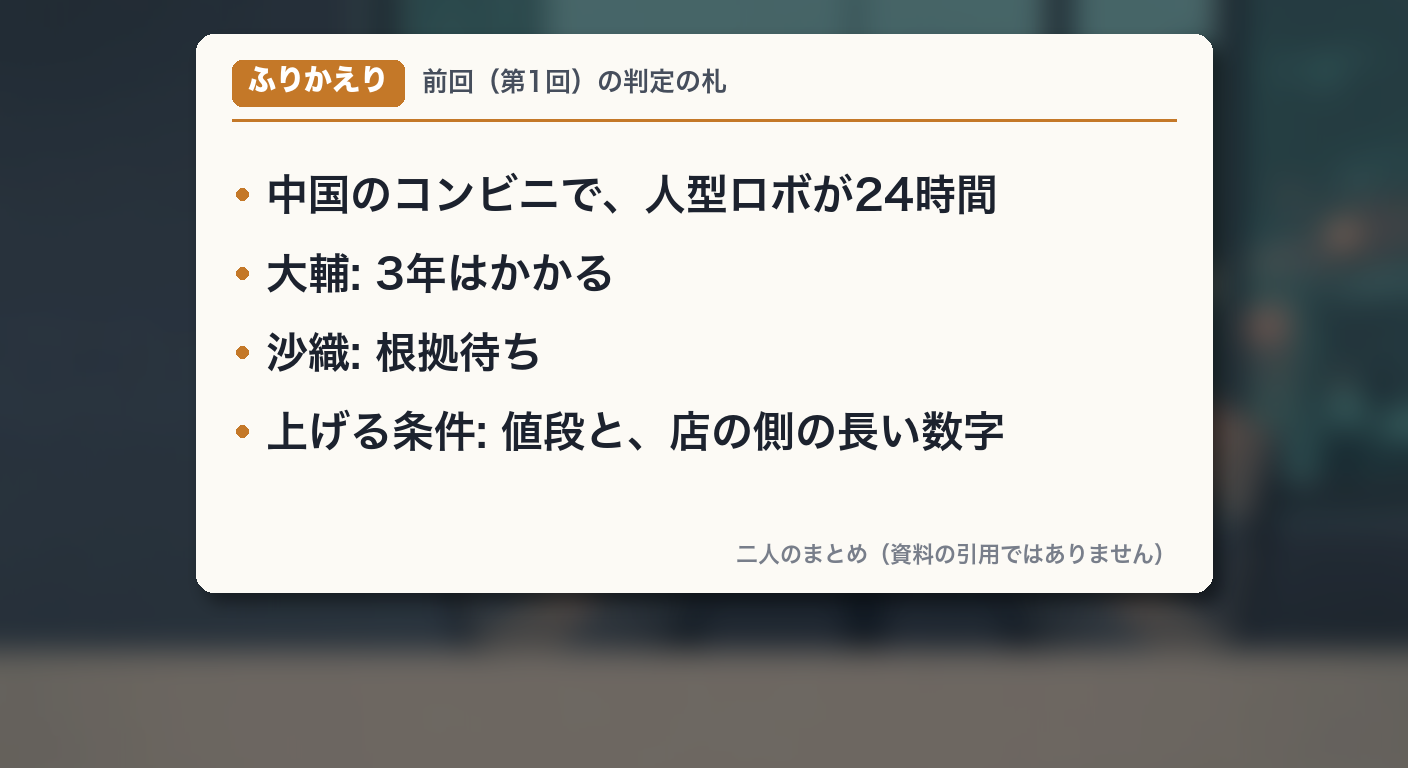
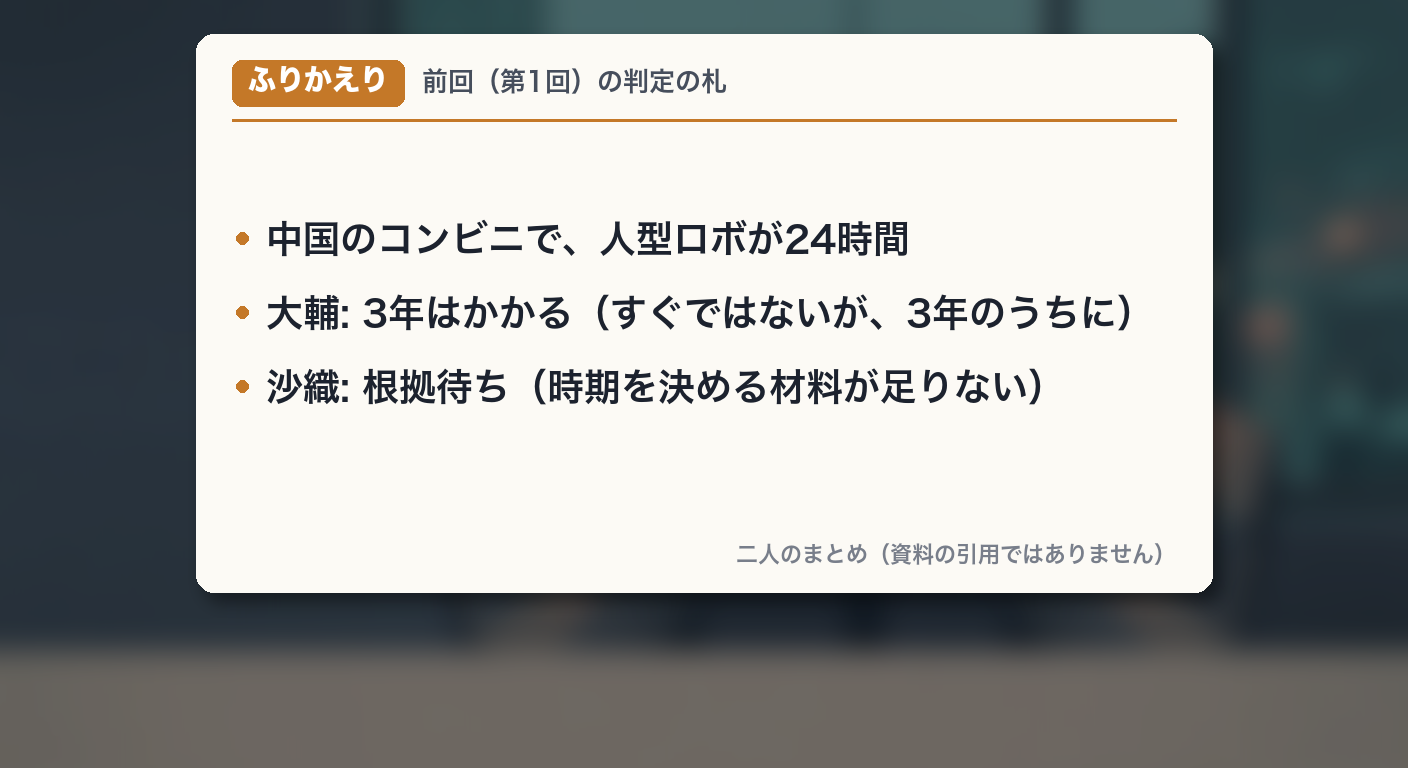
kl060: 初見レビュー1周目の修正（予想と札の向き・数字の整理・固有名の削減）

Changed region(s): [[0.1562, 0.2188, 0.8125, 0.5938]]

diff --git a/script_prep/kl060.md b/script_prep/kl060.md
@@ -69,21 +69,24 @@
 | 対象 | 予告（ティザー・Shorts） | タイトル案・サムネ | 本編で使う言い方（統一） |
 |---|---|---|---|
 | Google DeepMind | 出さない | 「グーグルのAI」（案3・6のみ） | 初出「グーグルのAIの研究部門、ディープマインド」、以後「ディープマインド」「ディープマインドの発表」 |
-| Gemini Robotics 2.5 | 出さない | 案6のみ「ジェミニ・ロボティクス」 | 初出1回だけ「ジェミニ・ロボティクス2.5」（字幕 display で英字）、以後は「頭脳のAI」 |
-| Apptronik / Apollo 2 | 「人型ロボ」 | 「人型ロボ」 | 初出「アメリカのアプトロニクという会社の人型ロボ、アポロ2」、以後「アポロ2」「人型ロボ」。論点3は「アポロ2を作るアプトロニク」 |
+| Gemini Robotics 2.5 | 出さない | 案6のみ「ジェミニ・ロボティクス」 | 台詞では名前を言わない（初見r1 指摘6）。「ロボットを動かすAIの新しい版」→「頭脳のAI」。製品名は資料カード・概要欄だけ |
+| Apptronik / Apollo 2 | 「人型ロボ」 | 「人型ロボ」 | 台詞では社名を言わない（初見r1 指摘6）。初出「アメリカの会社が作った人型ロボ、アポロ2」、論点3は「アポロ2を作っているアメリカの会社」。社名は資料カードだけ |
 | メルセデス・ベンツの工場 | 「動いている車の工場」 | 「車工場」（案2のみ「メルセデスの工場」） | 初出「メルセデス・ベンツの車の工場。ハンガリーとドイツの、動いている生産ライン」、以後「メルセデスの工場」「車のライン」 |
 | kitting | 「部品並べ」 | 「部品並べ」 | 「部品並べ」で統一（「キッティング」は言わない） |
 | 96% | 「成功率96%」 | 「成功率96%」 | 「成功率96%」「96%」。「100回中」は言わない |
 | 4% | 「残りの4%」 | 「残り4%」 | 「残りの4%」（成功しなかった分） |
 | 試験の段階 | 言わない | 言わない | 「本番の前の試し」「試験」（発表自身の言い方） |
 | 200超の作業の伸び | 出さない | 出さない | 「200を超える作業で、前の版と比べて」。毎回「メルセデスの工場の数字ではない」と区別 |
-| Figure × BMW | Shorts「別の会社の人型ロボは、アメリカの車工場で11か月」 | 出さない | 「アメリカのフィギュアという人型ロボの会社の報告」「BMWのアメリカの工場で11か月」 |
-| GXO | 出さない | 出さない | 「アメリカの物流の大手、GXO」「基本合意（正式な契約の前の約束）」 |
+| Figure × BMW | Shorts「別の会社の人型ロボは、アメリカの車工場で11か月」 | 出さない | 初出だけ「アメリカのフィギュアという人型ロボの会社の報告」、2回目以降は「BMWの工場の例」（初見r1 指摘6） |
+| GXO | 出さない | 出さない | 台詞は「アメリカの物流の大手」だけ（初見r1 指摘6）。カードは「物流の大手（GXO）」。「基本合意（正式な契約の前の約束）」 |
 | トヨタ（カナダ） | 出さない | 出さない | 「トヨタのカナダの工場」「別の会社の人型ロボを借りる契約」（アジリティの社名は出さない。会社名を絞るため） |
+| 4% | 「残りの4%」 | — | 初出から「ロボが失敗した残りの4%」（S02・S05、初見r1 指摘13） |
+| 札の順 | — | — | S05 で4つを並べ、3年はかかる＝すぐではないが3年のうち、根拠待ち＝来ないとは言わないが材料不足、と意味を言う |
+| 安全の43% | — | — | 「頭脳のAIの、動きながらその場で危ないものをよけるよう考える仕組み」で「近くに人がいるとき安全に終えた割合が43%上がった」。比べた相手（前の版か）は原文に無いので言わない |
 | 時期: 発表 | — | 「（11月時点）」 | 「11月10日」（ディープマインド）、「11月12日」（GXO） |
-| 時期: 借りる試験 | — | — | 「2027年に試験を始めて、北米での最初の導入は2027年の終わりごろ」「4年で最大1,000台」 |
+| 時期: 借りる試験 | — | — | 「2027年に、まず試験。北米で最初に入れるのは、2027年の終わりごろの予定」「うまくいけば4年で最大1,000台」（初見r1 指摘7） |
 | 時期: トヨタの契約 | — | — | 「今年の2月」 |
-| 時期: 判定の3年 | — | — | 「今日から数えて、工場や倉庫で毎日任され始めるまでの3年」 |
+| 時期: 判定の3年 | — | — | 予想「3年のうちに毎日任され始める」＝札「3年はかかる（すぐではないが3年のうちに来る）」と同じ向きと台詞で言う（S05 で札の意味、S12 で「予想と同じ向き」）。「札を上げる」は使わず、行き先「『3年はかかる』か『もうすぐ来る』に変える」と言う（初見r1 指摘1・3） |
 | 時点 | — | 「11月時点」 | 「2026年11月23日時点の、二人の見立て」 |
 | 前回 | — | 「定点観測 第2回」 | 「続きものの第2回」「第1回は、中国のコンビニ」 |
 予告と本編の食い違いの確認: ティザーの「部品並べ」「成功率96%」「残りの4%」は本編 S05 と同じ語。ティザー S04「どこまで来た？ そのとき、人の仕事はどう変わる？」は、S05 12行目「どこまで来たのか。そのとき、人の仕事はどう変わるのか」と同じ順・同じ言い方。判定（S12 4行目）は「毎日任され始めるのはいつか」で札の対象を言い切る。Shorts の「11か月」は本編 S08・S09 と同じ。
